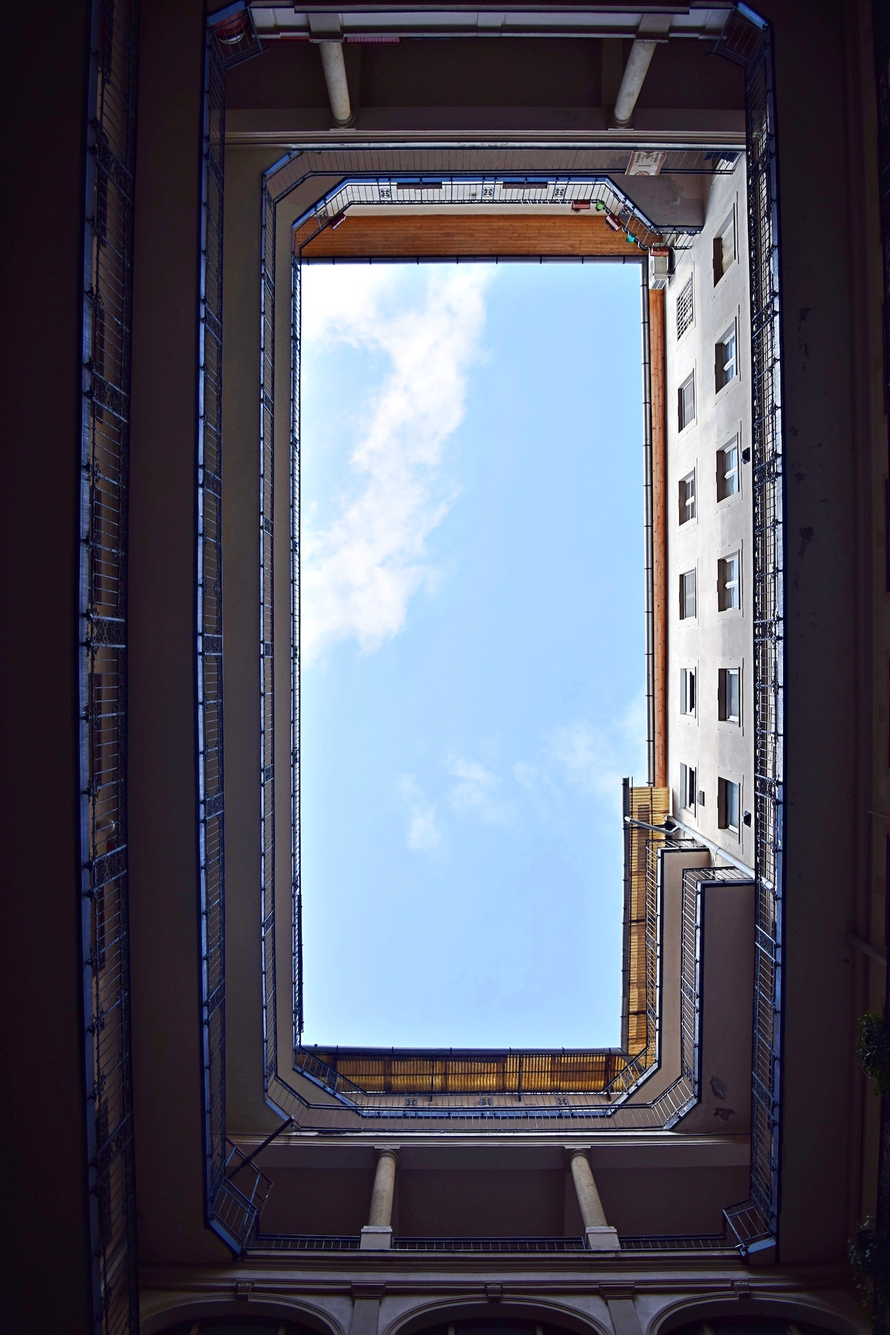
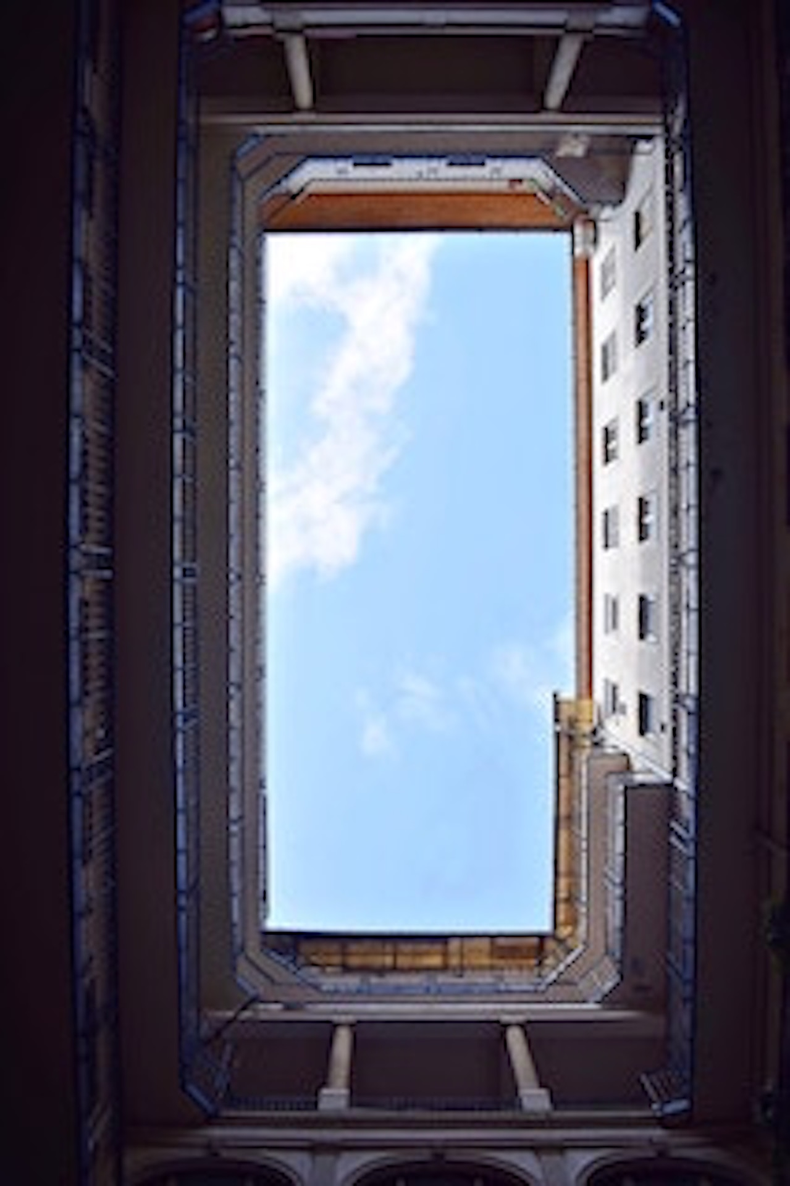
Resized header image manually

diff --git a/src/CSS/Header.css b/src/CSS/Header.css
@@ -1,4 +1,5 @@
 .header {  
+    width: 100%;
     background-color: black;
     background: linear-gradient( rgba(0, 0, 0, 0.2),
      rgba(0, 0, 0, 0.2) ),
@@ -11,11 +12,6 @@
       justify-content: inherit;
       align-items: inherit;
     }
-
-.header img {
-    width: 100%;
-    display: block;
-}
 
 .name {
     color: white;
@@ -52,6 +48,7 @@
         background-repeat: no-repeat;
         background-size: cover;
         background-attachment: fixed;
+        width: auto;
 
     }
 
